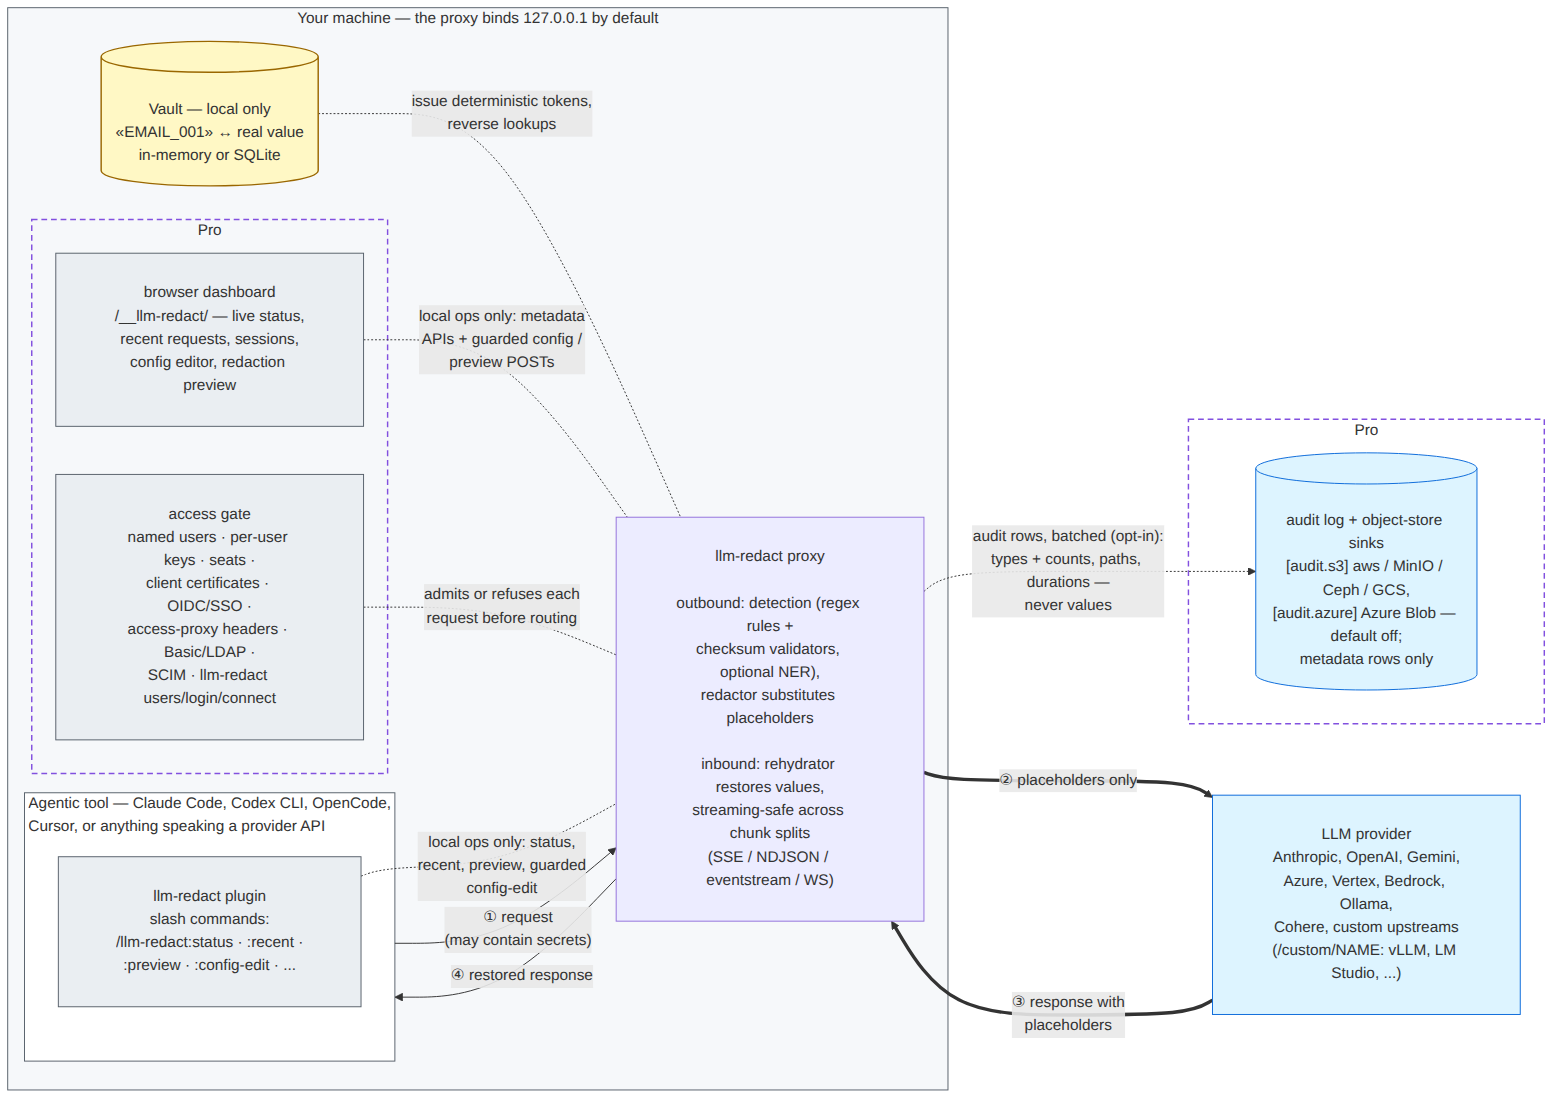
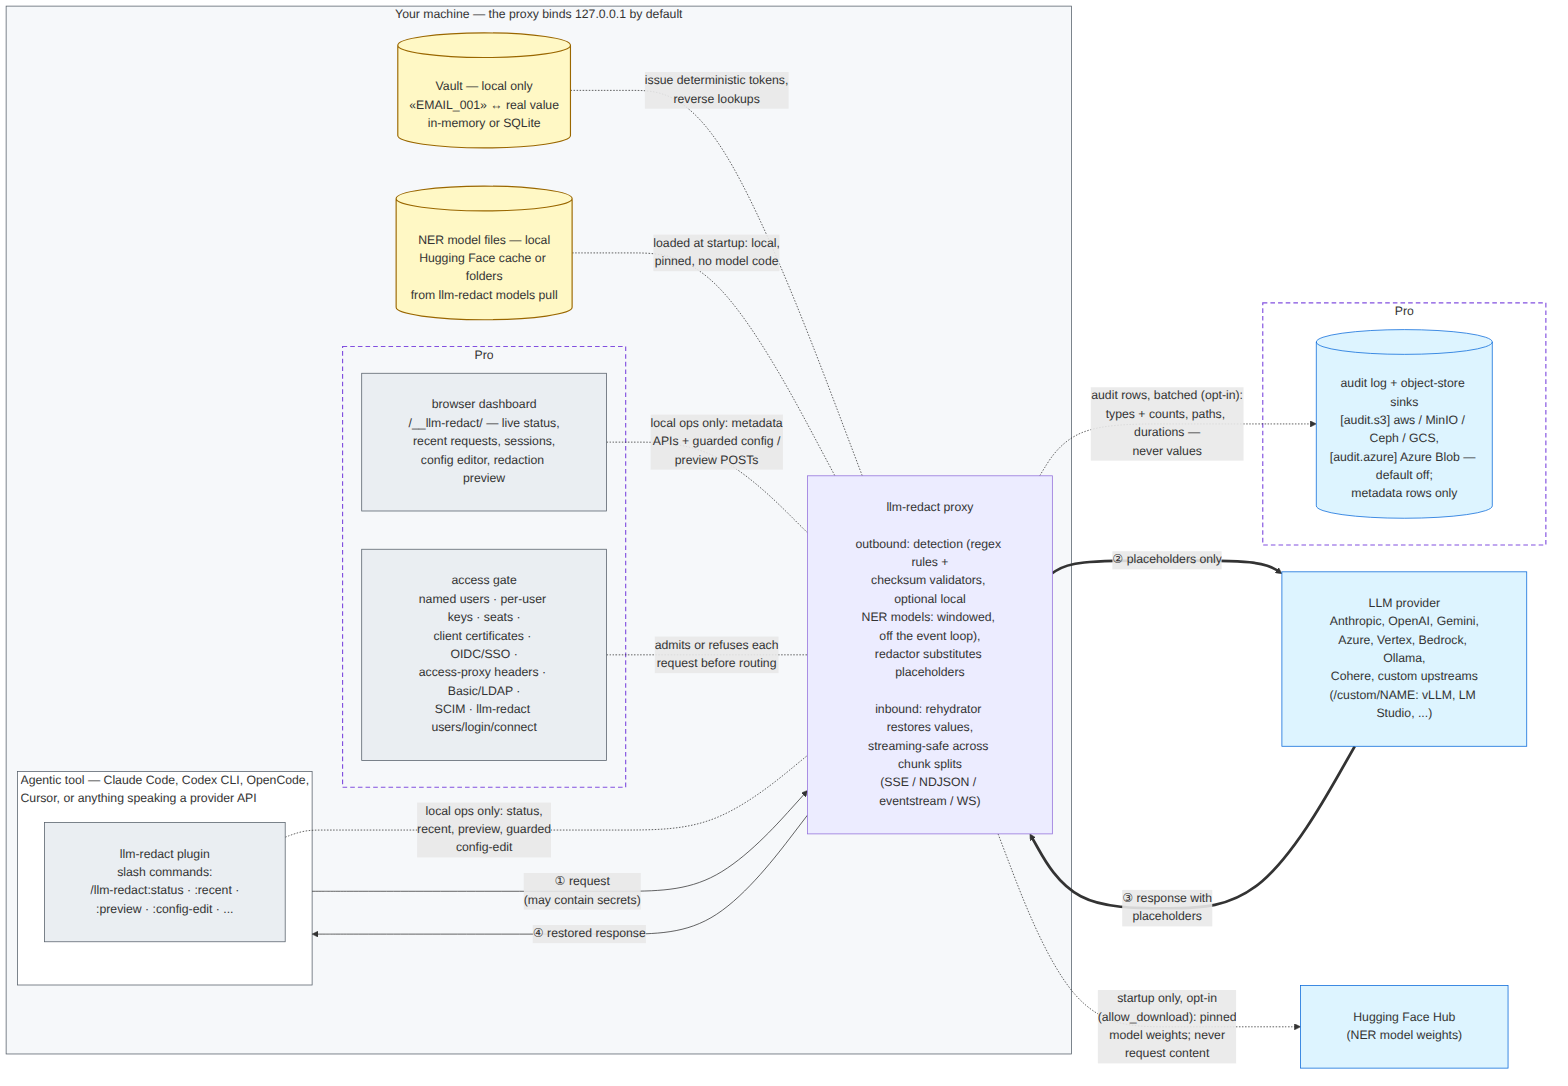
T17b: Diagram and document model loading, provisioning and the supply chain
A static model-supply-chain diagram (catalog pins, models pull or an
opt-in startup download, the local cache, GLiNER base-model assembly,
models verify, the local-only load; beside it the air-gap path of
portable folders verified with models verify --dir), embedded in
docs/detection.md and docs/threat-model.md. The architecture diagram
gains the local NER model files and the opt-in, startup-only Hugging
Face Hub edge (re-rendered PNG/SVG/GIF; README, editions and dashboard
descriptions updated). docs/deployment.md gains Provisioning NER
models; docs/troubleshooting.md the missing-extra and spaCy/Stanza/
Presidio model messages.

Claude-Session: https://claude.ai/code/session_01CBWJnhgyTWUvTzSoH9xDrT

diff --git a/tests/test_diagram_assets.py b/tests/test_diagram_assets.py
@@ -18,6 +18,7 @@ ANIMATED = [s for s in SOURCES if re.search(r"^%%\s*animate\b", s.read_text(), r
 def test_sources_exist() -> None:
     assert {s.stem for s in SOURCES} >= {
         "architecture",
+        "model-supply-chain",
         "ner-pipeline",
         "ner-prefetch",
         "security-gates",

diff --git a/docs/deployment.md b/docs/deployment.md
@@ -324,6 +324,60 @@ A client still writing frames when the proxy closes it may see a connection
 reset instead of the 1012 frame, because the server closes its socket right
 after sending the close frame. Treat either as "reconnect".
 
+## Provisioning NER models
+
+NER is opt-in (`[detection.ner] enabled = true`, docs/detection.md). The
+`gliner`, `gliner2` and `hf` backends load Hugging Face models, and with
+`[detection.ner] allow_download = false` — the default — the proxy never
+fetches one: every model loads from local files, and a model that is not
+there stops the startup with an error naming it, its revision and
+`llm-redact models pull`. So provisioning is a step of its own, done before
+the proxy starts with NER on (the [model supply chain
+diagram](diagrams/model-supply-chain.png) shows the whole path):
+
+- **On the proxy's machine:** run `llm-redact models pull --config PATH` as
+  the user the proxy runs as, with network access to huggingface.co. It
+  fetches each configured model (and a GLiNER model's base model) at its
+  pinned revision into that user's Hugging Face cache (`HF_HOME`, default
+  `~/.cache/huggingface`), which the proxy reads. `llm-redact models verify`
+  then checks offline that every file the load reads is there, and
+  `llm-redact doctor` reports the same under `models`. spaCy, Presidio and
+  Stanza models are Python packages or library downloads, not Hub
+  snapshots: `llm-redact models list` prints their install commands.
+- **For a machine or container that cannot write a cache** (or must not
+  reach the network): run `llm-redact models pull --to DIR --as /models` on
+  a connected machine. It writes one self-contained folder per model plus a
+  manifest of SHA-256 sums, and prints the `[detection.ner.models]` lines
+  that load them from `/models`. Mount `DIR` there read-only, check it with
+  `llm-redact models verify --dir /models`, and paste the printed lines into
+  the configuration. A folder needs no cache, no base-model assembly and no
+  network.
+- **`allow_download = true`** lets the proxy's startup (`serve`,
+  `serve --check`) fetch what is missing instead — pinned files only, never
+  request content — which needs network access to huggingface.co and a
+  writable `HF_HOME` at every start. Reloads never download: a SIGHUP or
+  config-editor change that names a model not on disk is refused and the
+  running configuration is kept, whatever `allow_download` says.
+
+Where the files live under a hardened deployment:
+
+- **systemd** (`llm-redact service install`): the unit runs with
+  `ProtectHome=read-only` and writes only the llm-redact data, config and
+  state directories. The Hugging Face cache stays readable, so models pulled
+  beforehand load; but the unit cannot write it, so run `llm-redact models
+  pull` as the user outside the unit (and leave `allow_download` off). The
+  folders the `gliner` backend assembles for urchade-style models (under
+  `~/.local/share/llm-redact/models/gliner/`) are inside the writable data
+  directory.
+- **Containers and Helm** (`readOnlyRootFilesystem: true`): the image's
+  home directory, and with it the default Hugging Face cache, is on the
+  read-only root filesystem. Pre-provision a models volume — the `pull --to`
+  folders, mounted read-only at `/models` and named in
+  `[detection.ner.models]` — or mount a pre-filled Hugging Face cache and
+  point `HF_HOME` at it (a cache needs a writable `XDG_DATA_HOME` for the
+  GLiNER base-model assembly; `/data` is). Either way the pod loads models
+  with no network at all.
+
 ## Vault lifecycle in production
 
 The sqlite vault (`[vault] backend = "sqlite"`) is the one piece of state

diff --git a/docs/README.md b/docs/README.md
@@ -14,7 +14,7 @@ read [src/llm_redact/user_guide.md](../src/llm_redact/user_guide.md).
 | [quickstart.md](quickstart.md) | Redacting your first session in five minutes: install, init, run, verify. |
 | [how-it-works.md](how-it-works.md) | The mechanism end to end: the round-trip diagrams, a worked example (placeholder body, vault rows, audit row), persistence and fuzzy token restoration, and session isolation. |
 | [providers.md](providers.md) | Per-provider setup: Azure/Vertex/Bedrock/Ollama/custom upstreams, embeddings, batch APIs, the realtime relay, and the opt-out switches. |
-| [detection.md](detection.md) | The full detection reference: built-in rules, deny strings, per-rule modes, allowlists, and the person-name NER backends — how they run (windows, label policy; the `ner-pipeline` diagram) and their coverage counters. |
+| [detection.md](detection.md) | The full detection reference: built-in rules, deny strings, per-rule modes, allowlists, and the person-name NER backends — how they run (windows, label policy; the `ner-pipeline` diagram), where their models come from (the `model-supply-chain` diagram) and their coverage counters. |
 | [extraction.md](extraction.md) | Document extraction for binary uploads (`[extraction]`): PDFs, Office files and scans read as text (isolated worker processes; Tika, docling-serve, unstructured, AWS Textract, Google Document AI or Azure Document Intelligence for OCR) so the proxy can scan them — a value found refuses the upload or, in convert mode, sends its redacted text; a complete clean reading sends the file as is. |
 | [dashboard.md](dashboard.md) | The local ops surface: status/metrics/health endpoints, the recent-request and event feeds, `llm-redact preview`, and the agent plugins (the browser dashboard — config editor, redaction preview — is part of llm-redact-pro). |
 | [overrides.md](overrides.md) | Refusal overrides (opt-in, off by default: `[overrides] enabled = true`): the single-use code a detection refusal then carries, approving it once or always on the terminal (or the llm-redact-pro dashboard), what can and cannot be overridden, and where every use is recorded. |

diff --git a/docs/troubleshooting.md b/docs/troubleshooting.md
@@ -436,6 +436,27 @@ the `transformers` package is installed but `torch` is not, so no model can
 run. Install the extra, which brings both: `uv sync --extra hf` (or
 `pip install 'llm-redact-proxy[hf]'`), then re-run `serve --check`.
 
+## `[detection.ner] backend = "…" but the … extra is not installed; install it: uv sync --extra …` / "[detection.ner] is enabled but spaCy is not installed; install the extra: uv sync --extra ner"
+
+From `serve` / `serve --check` (and a reload that turns the backend on): the
+backend's Python packages are not in the environment the proxy runs in. Each
+backend has its extra — `hf`, `gliner`, `gliner2`, `presidio`, `stanza`, and
+`ner` for spaCy: `uv sync --extra gliner`, or `pip install
+'llm-redact-proxy[gliner]'`. `llm-redact doctor` lists under `ner` which
+backends are importable. Without network access, install from wheels
+downloaded on a connected machine of the same platform.
+
+## "spaCy model … is not available; download it: …" / "Stanza '…' NER model is not available; download it: …" / "failed to build the Presidio analyzer; is the spaCy model available? …"
+
+The library is installed but its model is not. spaCy (and Presidio, which
+runs on spaCy) models are Python packages: install the one named
+(`en_core_web_sm` by default) with the command shown, or, without network
+access, install its wheel from the spaCy models release page carried in.
+Stanza downloads its models into `~/stanza_resources` (`STANZA_RESOURCES_DIR`);
+run the command shown on a connected machine and carry that directory in.
+These models are not Hugging Face snapshots, so `llm-redact models pull`
+does not fetch them; `llm-redact models list` prints their install commands.
+
 ## "[detection.ner] hf model '…' has no fast tokenizer; character offsets are required"
 
 Startup (and `serve --check`) refused an `hf` backend model whose tokenizer

diff --git a/README.md b/README.md
@@ -8,7 +8,7 @@
 
 Large Language Model (LLM) information redactor that prevents private information from being sent to LLMs from agentic tools by substituting placeholders for private information on outgoing requests and then replaces the placeholders on the incoming responses seamlessly for the agentic tool users.
 
-![System data flow: agentic tool (with the llm-redact plugin slash commands inside it), proxy, and local vault on your machine; only placeholder tokens reach the LLM provider. Dashed boxes mark as Pro the browser dashboard on your machine (live status, config editor, redaction preview) and the audit log with its object-store sinks, plus the flows into each](docs/diagrams/architecture.png)
+![System data flow: agentic tool (with the llm-redact plugin slash commands inside it), proxy, local vault and local NER model files on your machine; only placeholder tokens reach the LLM provider, and the Hugging Face Hub is reached only by an opt-in startup download of pinned model weights. Dashed boxes mark as Pro the browser dashboard and access gate on your machine and the audit log with its object-store sinks, plus the flows into each](docs/diagrams/architecture.png)
 
 *Animated version: [SVG](docs/diagrams/architecture.svg) · [GIF](docs/diagrams/architecture.gif) — the request and response flow moves.*
 

diff --git a/CHANGELOG.md b/CHANGELOG.md
@@ -223,6 +223,15 @@ and tags `vX.Y.Z`.
   to `DIR` unless every model was fetched, and nothing in it is replaced until every new
   folder is written beside the old ones. Together with `models verify --dir` this carries
   models into an air-gapped network.
+- Docs: a `model-supply-chain` diagram (docs/detection.md "Model sources", docs/threat-model.md)
+  shows where NER model weights come from — the model catalog's pins, `llm-redact models pull`
+  or an opt-in startup download, the local cache, the offline checks and the load — and, beside
+  it, the air-gap path of portable folders with a SHA-256 manifest verified inside the enclave.
+  The `architecture` diagram shows the local NER model files and the opt-in, startup-only Hugging
+  Face Hub download. docs/deployment.md gains "Provisioning NER models" (`models pull`, folders for
+  read-only deployments, `allow_download`, the systemd unit's `ProtectHome=read-only`, the
+  container's read-only root filesystem), and docs/troubleshooting.md the missing NER extra and
+  spaCy/Stanza/Presidio model messages.
 
 ### Changed
 - NER no longer runs on the event loop: for a JSON request body, a multipart upload (an

diff --git a/docs/detection.md b/docs/detection.md
@@ -151,6 +151,10 @@ same way — the survey behind the lineup is
 
 ### Model sources: pinned revisions, downloads and pickle weights
 
+![Flowchart of where NER model weights come from: the model catalog's pins and the Hugging Face Hub feed llm-redact models pull (or a startup with allow_download = true), which fills the local Hugging Face cache; GLiNER base models are assembled into a local folder; models verify checks the files offline; the startup loads local files only (safetensors or ONNX, never repository code) and reloads never download. Beside it the air-gap path: models pull --to writes portable folders with a SHA-256 manifest, which are carried into the enclave, checked with models verify --dir and loaded with downloads off](diagrams/model-supply-chain.png)
+
+*Static diagram. [Mermaid source](diagrams/model-supply-chain.mmd).*
+
 The `gliner`, `gliner2` and `hf` backends load models from the Hugging Face
 Hub. Three `[detection.ner]` keys say where those models may come from:
 

diff --git a/docs/editions.md b/docs/editions.md
@@ -85,8 +85,9 @@ The paid subsystems live in that **separately-installed `llm-redact-pro`
 package**, not in the AGPL wheel — distribution control is the primary
 boundary, the signed key the secondary tier gate. The
 [architecture diagram](diagrams/architecture.png) marks the Pro parts of
-the data flow (the browser dashboard and the audit log with its sinks) in
-dashed boxes. In practice:
+the data flow (the browser dashboard, the access gate and the audit log with
+its sinks) in dashed boxes; everything else in it — the proxy, the vault, the
+local NER model files and their opt-in startup download — is the FOSS core. In practice:
 
 - A paid config without that package **fails closed** with a
   `ConfigError` naming the feature and the package — never a silent

diff --git a/docs/threat-model.md b/docs/threat-model.md
@@ -531,6 +531,10 @@ silent:
   `models` area names every model, its pin and whether its files are in the
   local cache, and WARNs on downloads, pickle weights and unpinned models.
 
+  ![Flowchart of where NER model weights come from: the catalog's pins and the Hugging Face Hub feed models pull or an opt-in startup download into the local cache, checked offline and loaded from local files only; beside it the air-gap path of portable folders with a SHA-256 manifest, verified inside the enclave](diagrams/model-supply-chain.png)
+
+  *Static diagram. [Mermaid source](diagrams/model-supply-chain.mmd).*
+
 ### Behavior under fault
 
 The security goal must hold when the network drops mid-stream, the upstream

diff --git a/docs/dashboard.md b/docs/dashboard.md
@@ -16,7 +16,7 @@ headers.
   part of the separately-installed **llm-redact-pro** package (Pro
   license tier; see [editions.md](editions.md) and the llm-redact-pro
   dashboard guide; the [architecture diagram](diagrams/architecture.png)
-  draws it in a dashed Pro box). Without it, those three paths answer a
+  draws it, beside the access gate, in a dashed Pro box). Without it, those three paths answer a
   local 404 that names the package (or, with the package installed but no Pro
   key, says a key is needed) — still answered before routing, never
   forwarded. Everything the page reads is served by the free core
